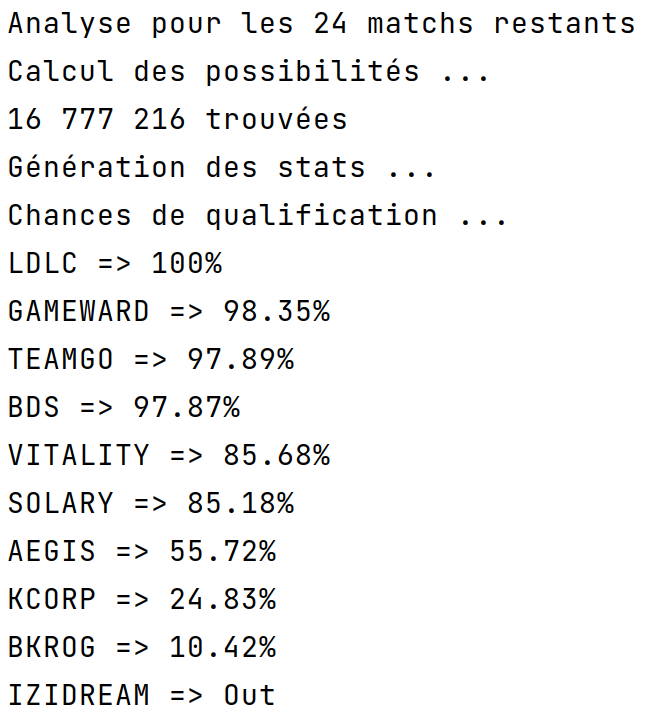
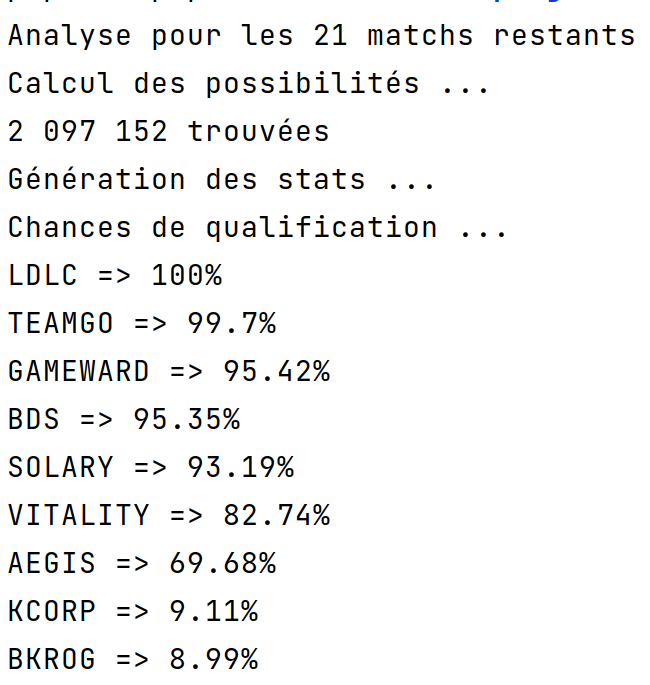
update results

Changed region(s): [[0.0, 0.0, 0.9846, 0.981]]

diff --git a/run.php b/run.php
@@ -5,10 +5,10 @@ $teams = [
     "LDLC" => 10,
     "GAMEWARD" => 8,
     "BDS" => 8,
-    "TEAMGO" => 8,
-    "SOLARY" => 7,
+    "TEAMGO" => 9,
+    "SOLARY" => 8,
     "VITALITY" => 7,
-    "AEGIS" => 6,
+    "AEGIS" => 7,
     "KCORP" => 5,
     "BKROG" => 5,
     "IZIDREAM" => 2,
@@ -16,9 +16,6 @@ $teams = [
 
 
 $matchs = [
-    ["BDS" => "AEGIS"],
-    ["TEAMGO" => "GAMEWARD"],
-    ["SOLARY" => "KCORP"],
     ["VITALITY" => "IZIDREAM"],
     ["LDLC" => "KCORP"],
     ["GAMEWARD" => "BKROG"],
